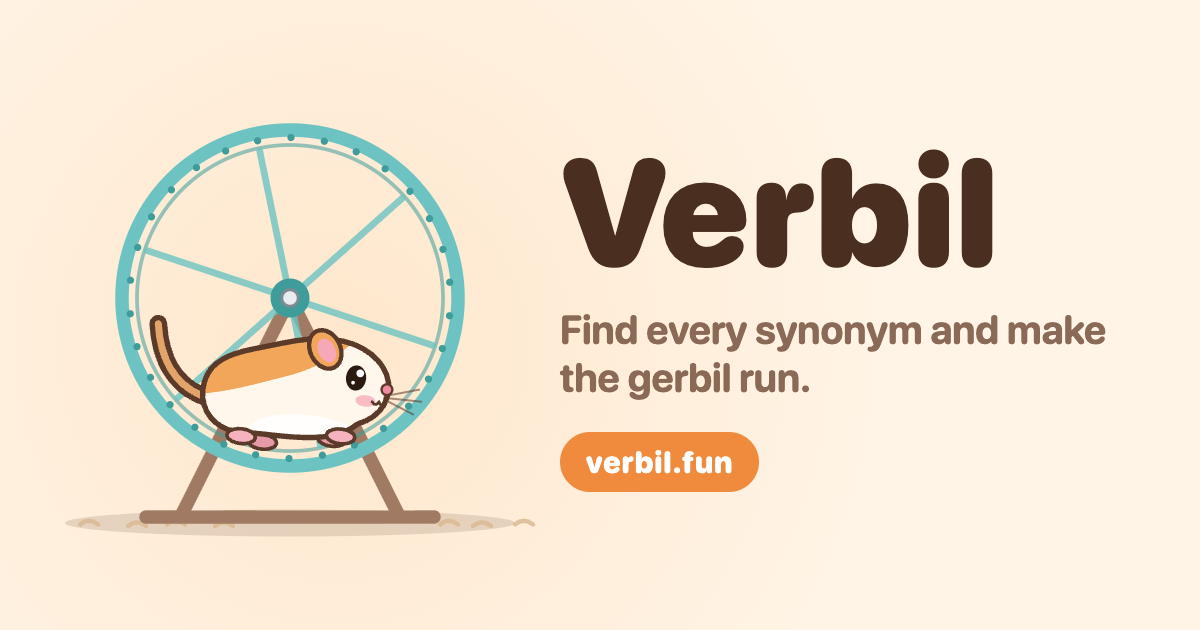
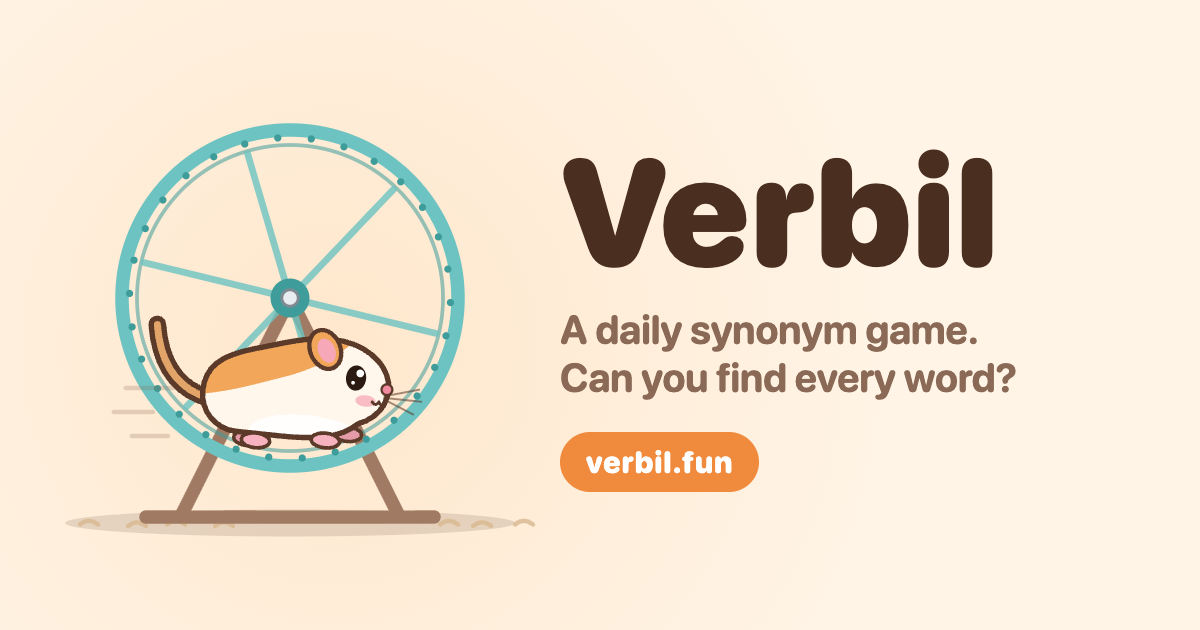
Update share image and description
"A daily synonym game. Can you find every word?" in the share card, link preview
and search description, and the app manifest.

diff --git a/index.html b/index.html
@@ -5,13 +5,13 @@
     <meta name="viewport" content="width=device-width, initial-scale=1, viewport-fit=cover, interactive-widget=resizes-content" />
     <meta name="theme-color" content="#FFF4E6" media="(prefers-color-scheme: light)" />
     <meta name="theme-color" content="#1E1612" media="(prefers-color-scheme: dark)" />
-    <meta name="description" content="A daily verb synonym game. Find every synonym and make the gerbil run!" />
+    <meta name="description" content="A daily synonym game. Can you find every word?" />
     <link rel="canonical" href="https://verbil.fun/" />
     <!-- Link previews (Facebook, WhatsApp, iMessage, Slack, X, ...) -->
     <meta property="og:type" content="website" />
     <meta property="og:site_name" content="Verbil" />
     <meta property="og:title" content="Verbil" />
-    <meta property="og:description" content="A daily verb synonym game. Find every synonym and make the gerbil run!" />
+    <meta property="og:description" content="A daily synonym game. Can you find every word?" />
     <meta property="og:url" content="https://verbil.fun/" />
     <meta property="og:image" content="https://verbil.fun/og-image.png" />
     <meta property="og:image:width" content="1200" />
